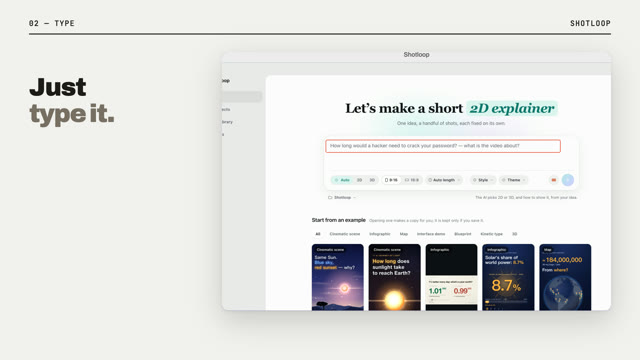
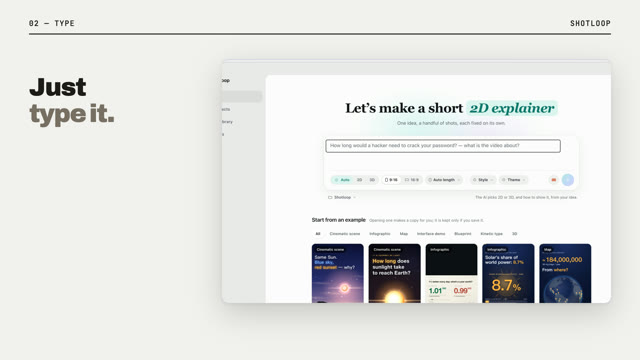
Rules: aligned, nothing stray (locked); quiet marks on the screen; headlines set with the kit. mark() defaults to a thin ink line

diff --git a/app/src/rules.ts b/app/src/rules.ts
@@ -184,8 +184,8 @@ const WORDS: Record<string, { name: Words; about: Words }> = {
     about: { en: 'Short rises without bounce, wipes at the cuts, landed screens keep pushing in', 'zh-CN': '短促上升不回弹，切镜用横扫，落定的画面持续缓慢推进', 'zh-TW': '短促上升不回彈，切鏡用橫掃，落定的畫面持續緩慢推進', ja: '跳ねない短い上昇、カットはワイプ、止まった画面もゆっくり寄り続ける', ko: '튕기지 않는 짧은 상승, 컷은 와이프, 멈춘 화면도 천천히 다가감', es: 'Subidas cortas sin rebote, barridos en los cortes, pantallas que siguen acercándose', 'pt-BR': 'Subidas curtas sem quique, cortinas nos cortes, telas que seguem se aproximando', fr: 'Montées courtes sans rebond, volets aux coupes, écrans qui continuent d’avancer', de: 'Kurze Bewegungen ohne Federn, Wischblenden an den Schnitten, ruhende Screens fahren weiter heran', it: 'Salite brevi senza rimbalzo, tendine ai tagli, schermate che continuano ad avanzare', ru: 'Короткие подъёмы без отскока, шторки на склейках, экраны продолжают медленно наезжать', tr: 'Zıplamayan kısa çıkışlar, kesmelerde silme, duran ekranlar yavaşça yaklaşmaya devam eder', vi: 'Hiện lên ngắn không nảy, chuyển cảnh bằng quét, màn hình dừng vẫn tiến chậm', id: 'Naik singkat tanpa memantul, sapuan di setiap potongan, layar yang diam tetap mendekat pelan' }
   },
   'promo-one-focus': {
-    name: { en: 'One focus at a time, unmissable', 'zh-CN': '一次一个焦点，不会看漏', 'zh-TW': '一次一個焦點，不會看漏', ja: '一度にひとつ、見逃さない焦点', ko: '한 번에 하나, 놓칠 수 없는 초점', es: 'Un foco a la vez, imposible de perder', 'pt-BR': 'Um foco por vez, impossível de perder', fr: 'Un seul point d’attention, impossible à rater', de: 'Ein Fokus zur Zeit, nicht zu übersehen', it: 'Un fuoco alla volta, impossibile da perdere', ru: 'Один фокус за раз, мимо не пройти', tr: 'Her an tek odak, gözden kaçmaz', vi: 'Mỗi lúc một tiêu điểm, không thể bỏ lỡ', id: 'Satu fokus sekali waktu, tak terlewat' },
-    about: { en: 'What matters is marked (an outline, a chip, the accent) while the rest dims', 'zh-CN': '重点用描边、标签或强调色标出来，其余变暗', 'zh-TW': '重點用描邊、標籤或強調色標出來，其餘變暗', ja: '大事なものは輪郭・チップ・アクセントで示し、他は暗く', ko: '중요한 것은 윤곽·칩·강조색으로 표시하고 나머지는 어둡게', es: 'Lo importante se marca (contorno, etiqueta, acento) y el resto se oscurece', 'pt-BR': 'O importante é marcado (contorno, etiqueta, destaque) e o resto escurece', fr: 'L’essentiel est marqué (contour, pastille, accent), le reste s’assombrit', de: 'Das Wichtige ist markiert (Rahmen, Chip, Akzent), der Rest dunkelt ab', it: 'Ciò che conta è segnato (contorno, etichetta, accento), il resto si scurisce', ru: 'Важное отмечено (контур, плашка, акцент), остальное темнеет', tr: 'Önemli olan işaretlenir (çerçeve, etiket, vurgu), gerisi kararır', vi: 'Điều quan trọng được đánh dấu (viền, nhãn, màu nhấn), phần còn lại tối đi', id: 'Yang penting ditandai (garis, label, aksen), sisanya meredup' }
+    name: { en: 'One focus at a time, quietly marked', 'zh-CN': '一次一个焦点，标记要克制', 'zh-TW': '一次一個焦點，標記要克制', ja: '一度にひとつ、控えめな印で', ko: '한 번에 하나, 차분한 표시', es: 'Un foco a la vez, marcado con calma', 'pt-BR': 'Um foco por vez, marcado com discrição', fr: 'Un seul point d’attention, marqué sobrement', de: 'Ein Fokus zur Zeit, ruhig markiert', it: 'Un fuoco alla volta, segnato con discrezione', ru: 'Один фокус за раз, отмечен сдержанно', tr: 'Her an tek odak, sakin işaretle', vi: 'Mỗi lúc một tiêu điểm, đánh dấu tiết chế', id: 'Satu fokus sekali waktu, ditandai tenang' },
+    about: { en: 'Marks on the screen are thin, in ink or the screen’s own accent; no loud brand colour or glow over its UI', 'zh-CN': '界面上的标记要细，用深色或界面自己的强调色；不用刺眼的品牌色、发光或色块盖在界面上', 'zh-TW': '介面上的標記要細，用深色或介面自己的強調色；不用刺眼的品牌色、發光或色塊蓋在介面上', ja: '画面上の印は細く、墨色か画面自身のアクセントで。派手なブランド色や光彩をUIに重ねない', ko: '화면 위 표시는 가늘게, 먹색이나 화면 자체 강조색으로. 요란한 브랜드색이나 광채를 UI에 얹지 않음', es: 'Las marcas en pantalla son finas, en tinta o el acento de la propia pantalla; sin colores de marca chillones ni brillos sobre su interfaz', 'pt-BR': 'Marcas na tela são finas, em tinta ou no destaque da própria tela; sem cor de marca berrante nem brilho sobre a interface', fr: 'Les marques à l’écran sont fines, à l’encre ou dans l’accent de l’écran ; pas de couleur de marque criarde ni de halo sur son interface', de: 'Markierungen auf dem Screen sind dünn, in Tinte oder seinem eigenen Akzent; keine grelle Markenfarbe, kein Leuchten über der Oberfläche', it: 'I segni sulla schermata sono sottili, in inchiostro o nell’accento della schermata; niente colori di marca urlati né bagliori sull’interfaccia', ru: 'Отметки на экране тонкие, тёмные или в его собственном акценте; без кричащего фирменного цвета и свечения поверх интерфейса', tr: 'Ekrandaki işaretler ince, mürekkep ya da ekranın kendi vurgusunda; arayüzün üstünde bağıran marka rengi ya da parıltı yok', vi: 'Dấu trên màn hình mảnh, màu mực hoặc màu nhấn của chính màn hình; không phủ màu thương hiệu chói hay phát sáng lên giao diện', id: 'Tanda di layar tipis, warna tinta atau aksen layar itu sendiri; tanpa warna merek mencolok atau pendar di atas antarmukanya' }
   },
   'promo-brand': {
     name: { en: 'The product’s own visual system', 'zh-CN': '用产品自己的视觉系统', 'zh-TW': '用產品自己的視覺系統', ja: '製品自身のビジュアルシステムで', ko: '제품 고유의 비주얼 시스템', es: 'El sistema visual del propio producto', 'pt-BR': 'O sistema visual do próprio produto', fr: 'Le système visuel du produit lui-même', de: 'Das eigene visuelle System des Produkts', it: 'Il sistema visivo del prodotto stesso', ru: 'Собственная визуальная система продукта', tr: 'Ürünün kendi görsel sistemi', vi: 'Hệ thống hình ảnh của chính sản phẩm', id: 'Sistem visual produk itu sendiri' },
@@ -218,6 +218,10 @@ const WORDS: Record<string, { name: Words; about: Words }> = {
   'promo-open-close': {
     name: { en: 'A title and an end card', 'zh-CN': '有片头，有片尾', 'zh-TW': '有片頭，有片尾', ja: 'タイトルとエンドカード', ko: '타이틀과 엔드 카드', es: 'Un título y una tarjeta final', 'pt-BR': 'Um título e um cartão final', fr: 'Un titre et un carton final', de: 'Ein Titel und eine Endkarte', it: 'Un titolo e un cartello finale', ru: 'Заставка и финальная карточка', tr: 'Bir başlık ve bir bitiş kartı', vi: 'Có mở đầu, có kết thúc', id: 'Judul pembuka dan kartu penutup' },
     about: { en: 'First the product’s real logo and name; last the end card with its line and where to get it; both fill the frame like any beat', 'zh-CN': '开头先出现产品真实的 logo 和名字；结尾是片尾卡：名字、一句话和获取方式；片头片尾也算一拍，同样要画面饱满', 'zh-TW': '開頭先出現產品真實的 logo 和名字；結尾是片尾卡：名字、一句話和取得方式；片頭片尾也算一拍，同樣要畫面飽滿', ja: '最初に製品の本物のロゴと名前、最後にエンドカード。どちらも他のビート同様に画面を満たす', ko: '처음엔 진짜 로고와 이름, 마지막엔 엔드 카드. 둘 다 다른 비트처럼 화면을 채움', es: 'Primero el logo real y el nombre; al final la tarjeta con su frase y dónde conseguirlo; ambos llenan el cuadro como cualquier momento', 'pt-BR': 'Primeiro o logo real e o nome; no fim o cartão com a frase e onde obter; ambos enchem o quadro como qualquer momento', fr: 'D’abord le vrai logo et le nom ; à la fin le carton avec sa phrase et où l’obtenir ; tous deux remplissent le cadre comme tout temps', de: 'Zuerst das echte Logo und der Name; am Ende die Endkarte mit Satz und Bezugsquelle; beide füllen das Bild wie jeder Moment', it: 'Prima il logo vero e il nome; alla fine il cartello con la frase e dove trovarlo; entrambi riempiono il quadro come ogni momento', ru: 'Сначала настоящий логотип и название; в конце карточка с фразой и где взять; обе заполняют кадр, как любой момент', tr: 'Önce gerçek logo ve ad; sonda cümlesi ve nereden alınacağıyla bitiş kartı; ikisi de her vuruş gibi kareyi doldurur', vi: 'Mở đầu bằng logo thật và tên; kết bằng thẻ có câu chốt và nơi tải; cả hai đều lấp đầy khung như mọi nhịp', id: 'Pertama logo asli dan nama; terakhir kartu penutup dengan kalimat dan tempatnya; keduanya mengisi bingkai seperti ketukan lain' }
+  },
+  'promo-aligned': {
+    name: { en: 'Aligned, nothing stray', 'zh-CN': '对齐，不留残余', 'zh-TW': '對齊，不留殘餘', ja: '揃える、余計なものを残さない', ko: '정렬, 잔여물 없음', es: 'Alineado, nada suelto', 'pt-BR': 'Alinhado, nada solto', fr: 'Aligné, rien qui traîne', de: 'Ausgerichtet, nichts Übriges', it: 'Allineato, niente di avanzato', ru: 'Выровнено, ничего лишнего', tr: 'Hizalı, artık yok', vi: 'Thẳng hàng, không thừa', id: 'Rata, tanpa sisa' },
+    about: { en: 'The logo centred on its name’s capital height; a group’s parts on one edge; no leftover box or outline', 'zh-CN': 'logo 和名字的大写字高居中对齐；同一组元素共用一条边；不留多余的框或描边', 'zh-TW': 'logo 和名字的大寫字高置中對齊；同一組元素共用一條邊；不留多餘的框或描邊', ja: 'ロゴは名前の大文字の高さに中央揃え、まとまりは同じ端に、余計な枠を残さない', ko: '로고는 이름의 대문자 높이에 가운데 정렬, 한 묶음은 같은 가장자리에, 남은 상자나 테두리 없음', es: 'El logo centrado en la altura de mayúsculas del nombre; las partes de un grupo en un mismo borde; ninguna caja sobrante', 'pt-BR': 'O logo centrado na altura das maiúsculas do nome; partes de um grupo na mesma borda; nenhuma caixa sobrando', fr: 'Le logo centré sur la hauteur des capitales du nom ; les éléments d’un groupe sur un même bord ; aucun cadre oublié', de: 'Logo mittig zur Versalhöhe des Namens; Teile einer Gruppe an einer Kante; keine übrigen Kästen', it: 'Il logo centrato sull’altezza delle maiuscole del nome; parti di un gruppo su un bordo; nessun riquadro avanzato', ru: 'Логотип по центру высоты прописных букв названия; части группы по одному краю; без лишних рамок', tr: 'Logo adın büyük harf yüksekliğine ortalı; grup parçaları tek kenarda; artık kutu yok', vi: 'Logo căn giữa theo chiều cao chữ hoa của tên; các phần một nhóm chung một cạnh; không để khung thừa', id: 'Logo di tengah tinggi huruf kapital namanya; bagian satu grup di satu tepi; tanpa kotak sisa' }
   },
   'promo-desktop': {
     name: { en: 'Screens on a desktop', 'zh-CN': '界面都放在桌面里', 'zh-TW': '介面都放在桌面裡', ja: '画面は必ずデスクトップの中', ko: '화면은 항상 데스크톱 안에', es: 'Pantallas en un escritorio', 'pt-BR': 'Telas numa área de trabalho', fr: 'Les écrans sur un bureau', de: 'Screens auf einem Schreibtisch', it: 'Schermate su una scrivania', ru: 'Экраны на рабочем столе', tr: 'Ekranlar bir masaüstünde', vi: 'Màn hình nằm trên màn hình nền', id: 'Layar di dalam desktop' },
@@ -449,7 +453,7 @@ const WORDS: Record<string, { name: Words; about: Words }> = {
   },
   'highlight': {
     name: { en: 'Highlight a control', 'zh-CN': '框选控件', 'zh-TW': '框選控制項', ja: '操作部を囲む', ko: '컨트롤 강조', es: 'Resaltar un control', 'pt-BR': 'Destacar um controle', fr: 'Encadrer un contrôle', de: 'Element hervorheben', it: 'Evidenziare un controllo', ru: 'Выделить элемент', tr: 'Bir denetimi vurgula', vi: 'Khoanh nút điều khiển', id: 'Sorot kontrol' },
-    about: { en: 'An outline hugging the control, in a colour that stands out, moving with the screen', 'zh-CN': '紧贴控件的描边框，颜色醒目，跟着界面一起动', 'zh-TW': '緊貼控制項的描邊框，顏色醒目，跟著介面一起動', ja: '操作部に沿った枠、目立つ色で、画面と一緒に動く', ko: '컨트롤에 딱 맞는 테두리, 눈에 띄는 색, 화면과 함께 움직임', es: 'Un contorno ceñido al control, de color que destaca, que se mueve con la pantalla', 'pt-BR': 'Um contorno justo ao controle, numa cor que se destaca, movendo-se com a tela', fr: 'Un contour qui épouse le contrôle, d’une couleur qui ressort, qui bouge avec l’écran', de: 'Ein Rahmen eng um das Element, in auffälliger Farbe, der sich mit dem Screen bewegt', it: 'Un contorno aderente al controllo, di un colore che spicca, che si muove con la schermata', ru: 'Рамка точно по элементу, заметного цвета, движется вместе с экраном', tr: 'Denetimi saran, öne çıkan renkte, ekranla birlikte hareket eden bir çerçeve', vi: 'Khung bám sát nút, màu nổi bật, di chuyển cùng màn hình', id: 'Garis yang pas di kontrol, warna mencolok, bergerak bersama layar' }
+    about: { en: 'A thin outline hugging the control, in ink or the screen’s own accent, moving with the screen', 'zh-CN': '紧贴控件的细描边，用深色或界面自己的强调色，跟着界面一起动', 'zh-TW': '緊貼控制項的細描邊，用深色或介面自己的強調色，跟著介面一起動', ja: '操作部に沿った細い枠、墨色か画面のアクセントで、画面と一緒に動く', ko: '컨트롤에 딱 맞는 가는 테두리, 먹색이나 화면 강조색, 화면과 함께 움직임', es: 'Un contorno fino ceñido al control, en tinta o el acento de la pantalla, que se mueve con ella', 'pt-BR': 'Um contorno fino justo ao controle, em tinta ou no destaque da tela, movendo-se com ela', fr: 'Un contour fin qui épouse le contrôle, à l’encre ou dans l’accent de l’écran, qui bouge avec lui', de: 'Ein dünner Rahmen eng um das Element, in Tinte oder dem Akzent des Screens, der sich mitbewegt', it: 'Un contorno sottile aderente al controllo, in inchiostro o nell’accento della schermata, che si muove con essa', ru: 'Тонкая рамка точно по элементу, тёмная или в акценте экрана, движется вместе с ним', tr: 'Denetimi saran ince bir çerçeve, mürekkep ya da ekranın vurgusunda, ekranla birlikte hareket eder', vi: 'Viền mảnh bám sát nút, màu mực hoặc màu nhấn của màn hình, di chuyển cùng màn hình', id: 'Garis tipis pas di kontrol, warna tinta atau aksen layar, bergerak bersama layar' }
   },
   'type-in': {
     name: { en: 'Type it in', 'zh-CN': '逐字输入', 'zh-TW': '逐字輸入', ja: '一文字ずつ入力', ko: '한 글자씩 입력', es: 'Escribirlo', 'pt-BR': 'Digitar', fr: 'Le taper', de: 'Eintippen', it: 'Digitarlo', ru: 'Набрать текст', tr: 'Yazarak gir', vi: 'Gõ từng chữ', id: 'Ketik masuk' },

diff --git a/engine/shotloop/screens.js b/engine/shotloop/screens.js
@@ -530,22 +530,16 @@ export function field(t, under, { region, text, at = 0, cps = 40, color = '#111'
 // ---- The pointer, on the stage above ----
 
 // A highlight round a control of a picture, for a shot's or a window's
-// draw: region in picture px, hugging its edges, in a colour that stands
-// out against the screen: the first of the film's accents deep enough
-// to show on a light app (a lime doesn't), or ink. color sets it
-// (a dark screen wants the light accent); p fades it in. width: the line
-// in picture px
-const markColor = () => {
-  const { C } = kit()
-  return [C.accent, C.accent2, C.accent3].find(c => c && lightness(c) <= 0.65) ?? '#0a0a0a'
-}
-
-export function mark({ region, p = 1, color, width = 4, radius = 8 }) {
+// draw: region in picture px, hugging its edges; thin and quiet (taste:
+// promo-one-focus): ink unless color gives the screen's own accent (a
+// dark screen wants a light one); p fades it in. width: the line in
+// picture px
+export function mark({ region, p = 1, color = '#1d1d1f', width = 3, radius = 8 }) {
   const q = clamp(p)
   if (q <= 0) return ''
   const pad = width
   return `<div style="position:absolute;left:${n(region.x - pad)}px;top:${n(region.y - pad)}px;width:${n(region.w + 2 * pad)}px;height:${n(region.h + 2 * pad)}px;` +
-    `border:${n(width)}px solid ${color ?? markColor()};border-radius:${n(radius + pad)}px;box-sizing:border-box;opacity:${n(q)}"></div>`
+    `border:${n(width)}px solid ${color};border-radius:${n(radius + pad)}px;box-sizing:border-box;opacity:${n(q)}"></div>`
 }
 
 // A pointer through keys [{ at, x, y }] (frame px), moving on a gentle arc
